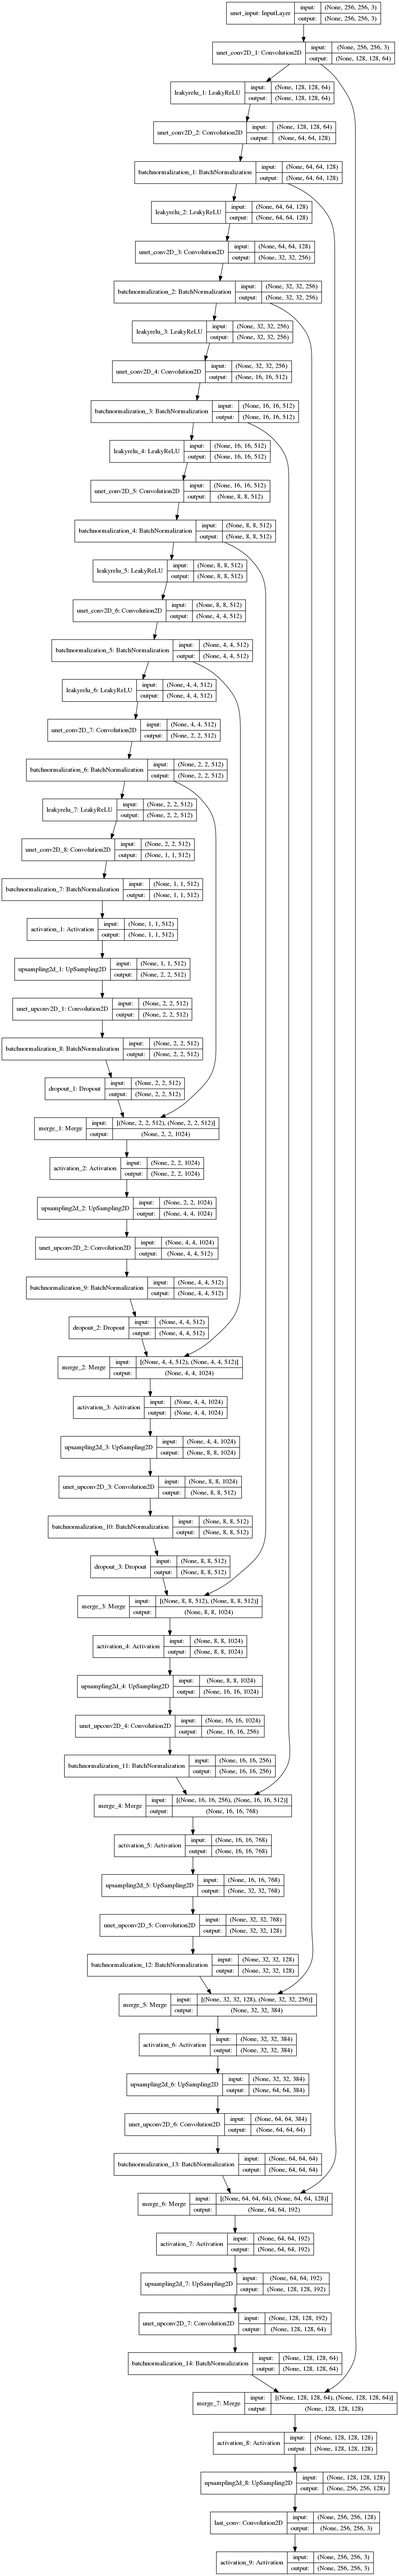
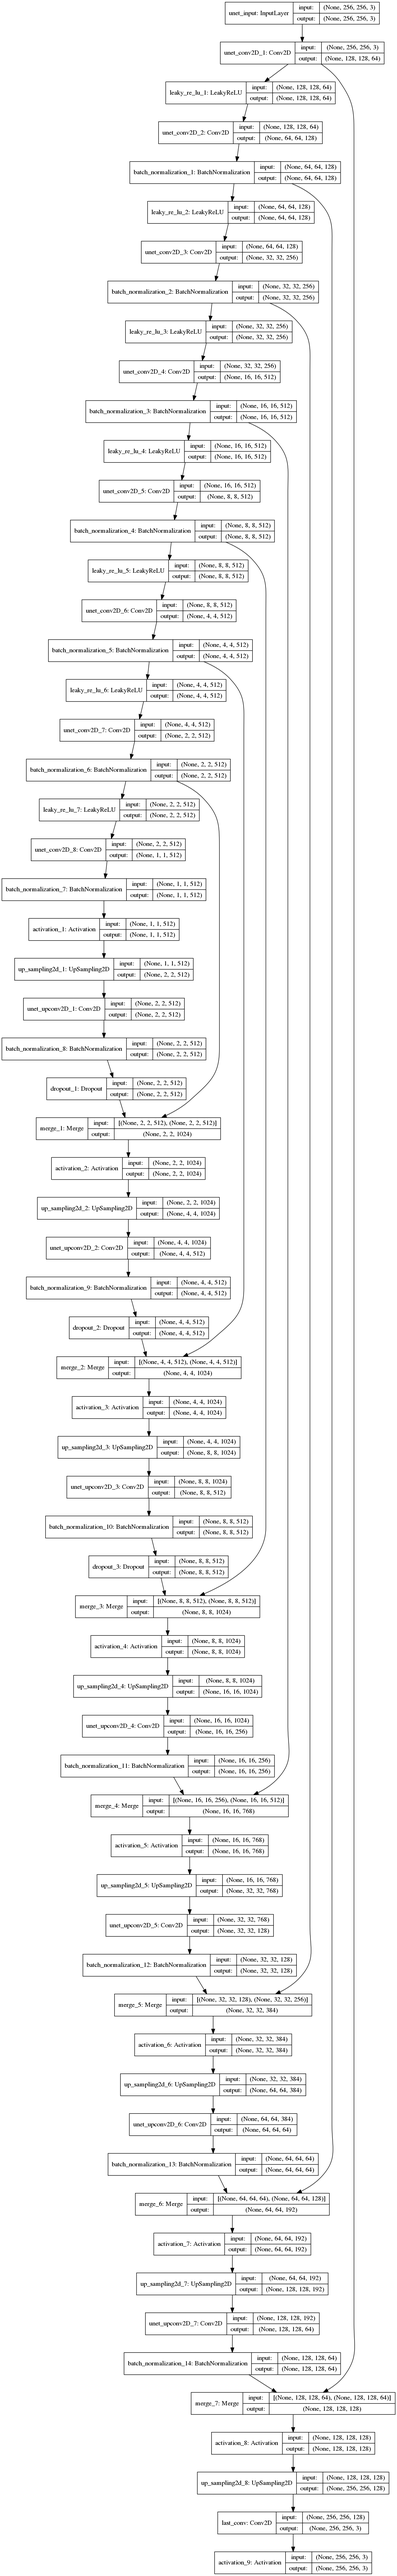
keras solution done

diff --git a/src/model/models.py b/src/model/models.py
@@ -309,22 +309,22 @@ def load(model_name, img_dim, nb_patch, bn_mode, use_mbd, batch_size):
     if model_name == "generator_unet_upsampling":
         model = generator_unet_upsampling(img_dim, bn_mode, model_name=model_name)
         print model.summary()
-        from keras.utils.visualize_util import plot
-        plot(model, to_file='../../figures/%s.png' % model_name, show_shapes=True, show_layer_names=True)
+        from keras.utils.vis_utils import plot_model
+        plot_model(model, to_file='../../figures/%s.png' % model_name, show_shapes=True, show_layer_names=True)
         return model
 
     if model_name == "generator_unet_deconv":
         model = generator_unet_deconv(img_dim, bn_mode, batch_size, model_name=model_name)
         print model.summary()
-        from keras.utils.visualize_util import plot
-        plot(model, to_file='../../figures/%s.png' % model_name, show_shapes=True, show_layer_names=True)
+        from keras.utils.vis_utils import plot_model
+        plot_model(model, to_file='../../figures/%s.png' % model_name, show_shapes=True, show_layer_names=True)
         return model
 
     if model_name == "DCGAN_discriminator":
         model = DCGAN_discriminator(img_dim, nb_patch, bn_mode, model_name=model_name, use_mbd=use_mbd)
         model.summary()
-        from keras.utils.visualize_util import plot
-        plot(model, to_file='../../figures/%s.png' % model_name, show_shapes=True, show_layer_names=True)
+        from keras.utils.vis_utils import plot_model
+        plot_model(model, to_file='../../figures/%s.png' % model_name, show_shapes=True, show_layer_names=True)
         return model
 
 

diff --git a/src/model/train.py b/src/model/train.py
@@ -140,7 +140,7 @@ def train(**kwargs):
         gen_loss = None
         disc_loss = None
 
-        iter_num = 17
+        iter_num = 18
         weights_path = "/home/abhik/pix2pix/src/model/weights/gen_weights_iter%s_epoch20.h5" % (str(iter_num - 1))
         print weights_path
         generator_model.load_weights(weights_path)
